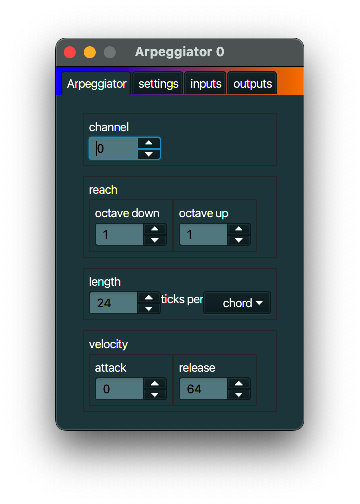
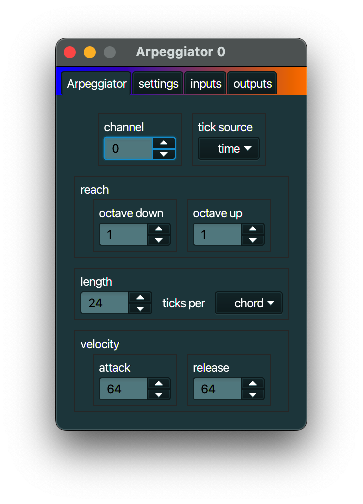
arpeggiator tick source added + layout

diff --git a/src/main/java/nl/nlcode/m/ui/ArpeggiatorUi.java b/src/main/java/nl/nlcode/m/ui/ArpeggiatorUi.java
@@ -2,11 +2,11 @@ package nl.nlcode.m.ui;
 
 import java.lang.invoke.MethodHandles;
 import javafx.fxml.FXML;
-import javafx.scene.control.ComboBox;
 import javafx.scene.control.MenuItem;
 import javafx.scene.control.Spinner;
 import nl.nlcode.m.engine.Arpeggiator;
 import nl.nlcode.m.engine.ArpeggiatorLengthPer;
+import nl.nlcode.m.engine.TickSource;
 import org.slf4j.Logger;
 import org.slf4j.LoggerFactory;
 
@@ -17,6 +17,10 @@ import org.slf4j.LoggerFactory;
 public class ArpeggiatorUi extends MidiInOutUi<Arpeggiator> {
 
     private static final Logger LOGGER = LoggerFactory.getLogger(MethodHandles.lookup().lookupClass());
+
+    @FXML
+    private EnumChoiceBox<TickSource> tickSource;
+    private ObjectUpdatePropertyBridge<TickSource> tickSourceBackend;
 
     @FXML
     private Spinner<Integer> channel;
@@ -41,15 +45,15 @@ public class ArpeggiatorUi extends MidiInOutUi<Arpeggiator> {
     @FXML
     private Spinner<Integer> overrideAttackVelocity;
     private IntUpdatePropertyBridge overrideAttackVelocityBackend;
-    
+
     @FXML
     private Spinner<Integer> releaseVelocity;
     private IntUpdatePropertyBridge releaseVelocityBackend;
-    
 
     public ArpeggiatorUi(ProjectUi projectUi, Arpeggiator arpeggiator, MenuItem menuItem) {
         super(projectUi, arpeggiator, menuItem);
         loadFxml(ArpeggiatorUi.class, App.MESSAGES);
+        tickSourceBackend = ObjectUpdatePropertyBridge.create(getMidiInOut().tickSource(), tickSource.valueProperty());
         channelBackend = IntUpdatePropertyBridge.create(getMidiInOut().channelProperty(), channel.getValueFactory().valueProperty());
         octaveUpBackend = IntUpdatePropertyBridge.create(getMidiInOut().octaveUpProperty(), octaveUp.getValueFactory().valueProperty());
         octaveDownBackend = IntUpdatePropertyBridge.create(getMidiInOut().octaveDownProperty(), octaveDown.getValueFactory().valueProperty());

diff --git a/src/main/java/nl/nlcode/m/engine/Arpeggiator.java b/src/main/java/nl/nlcode/m/engine/Arpeggiator.java
@@ -117,7 +117,7 @@ public class Arpeggiator<U extends Arpeggiator.Ui> extends TimeSensitiveMidiInOu
         lengthPer = new ObjectUpdateProperty<>(ArpeggiatorLengthPer.CHORD);
         lengthPer.register(this);
         lengthPer.addListener(onChangeRecalculateNoteLength);
-        overrideAttackVelocity = new IntUpdateProperty<>(MIDI_DATA_NONE, MIDI_DATA_NONE, MIDI_DATA_MAX);
+        overrideAttackVelocity = new IntUpdateProperty<>(64, MIDI_DATA_NONE, MIDI_DATA_MAX);
         overrideAttackVelocity.register(this);
         releaseVelocity = new IntUpdateProperty<>(64, MIDI_DATA_MIN, MIDI_DATA_MAX);
         releaseVelocity.register(this);
